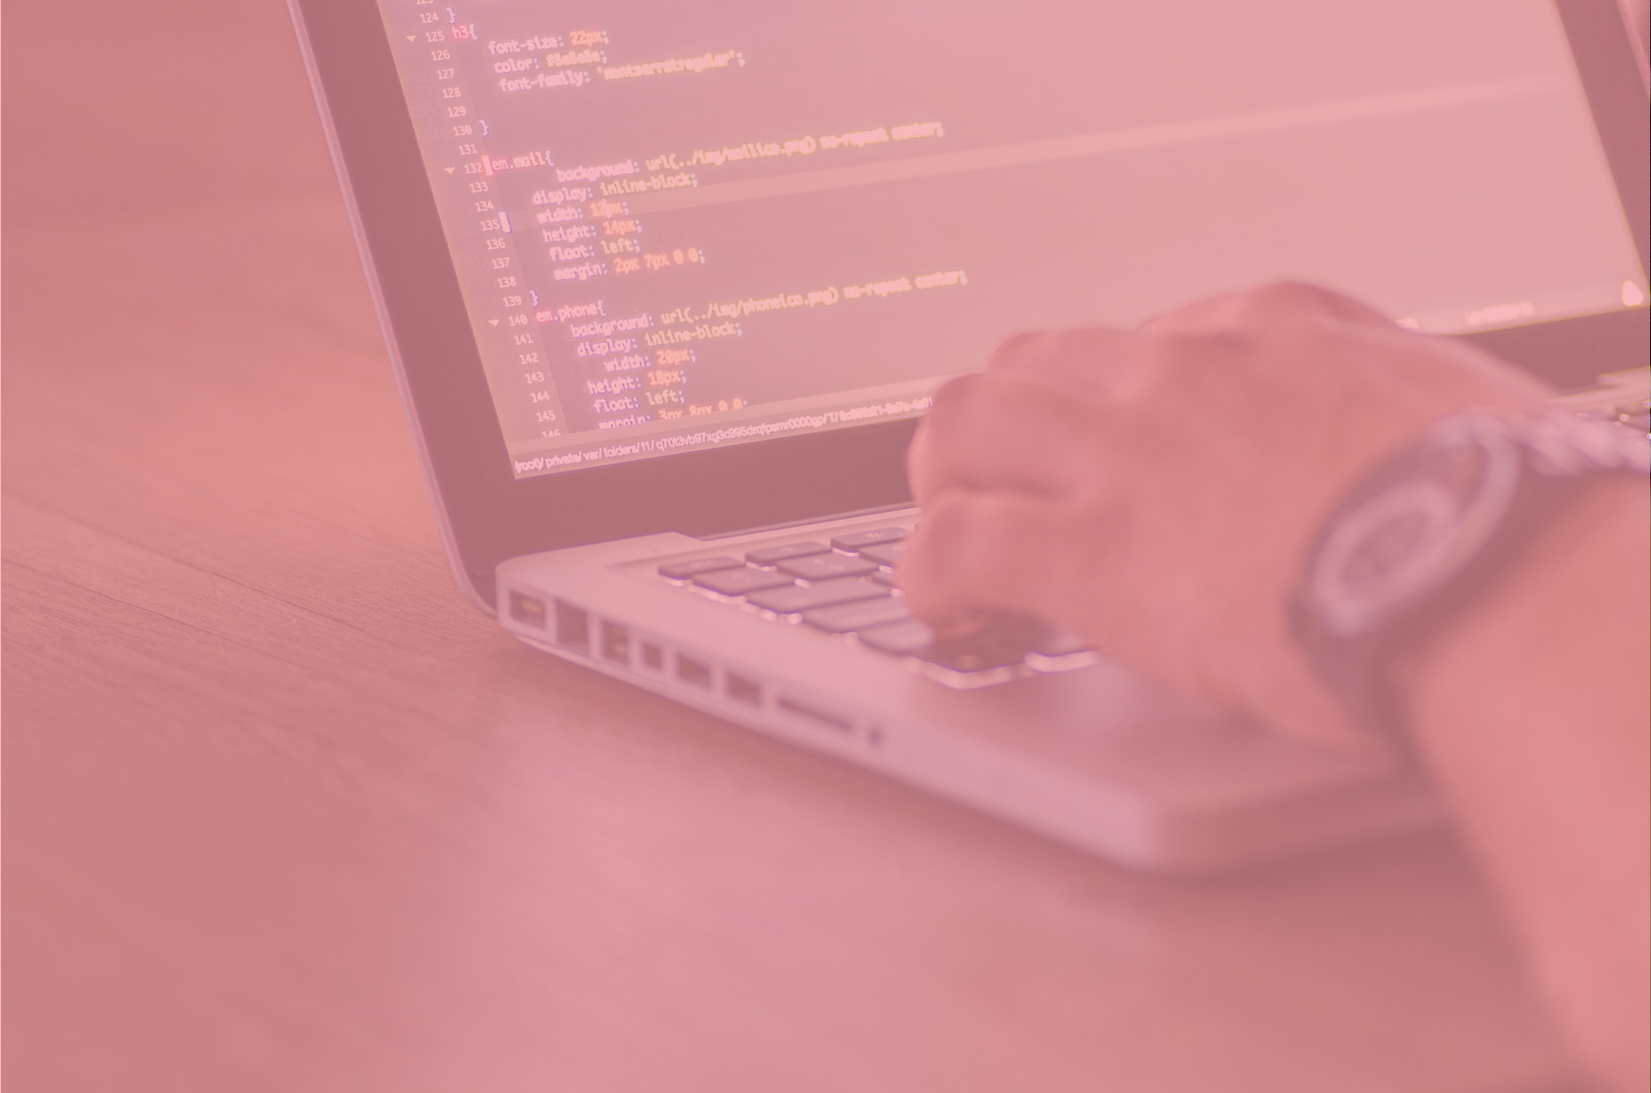
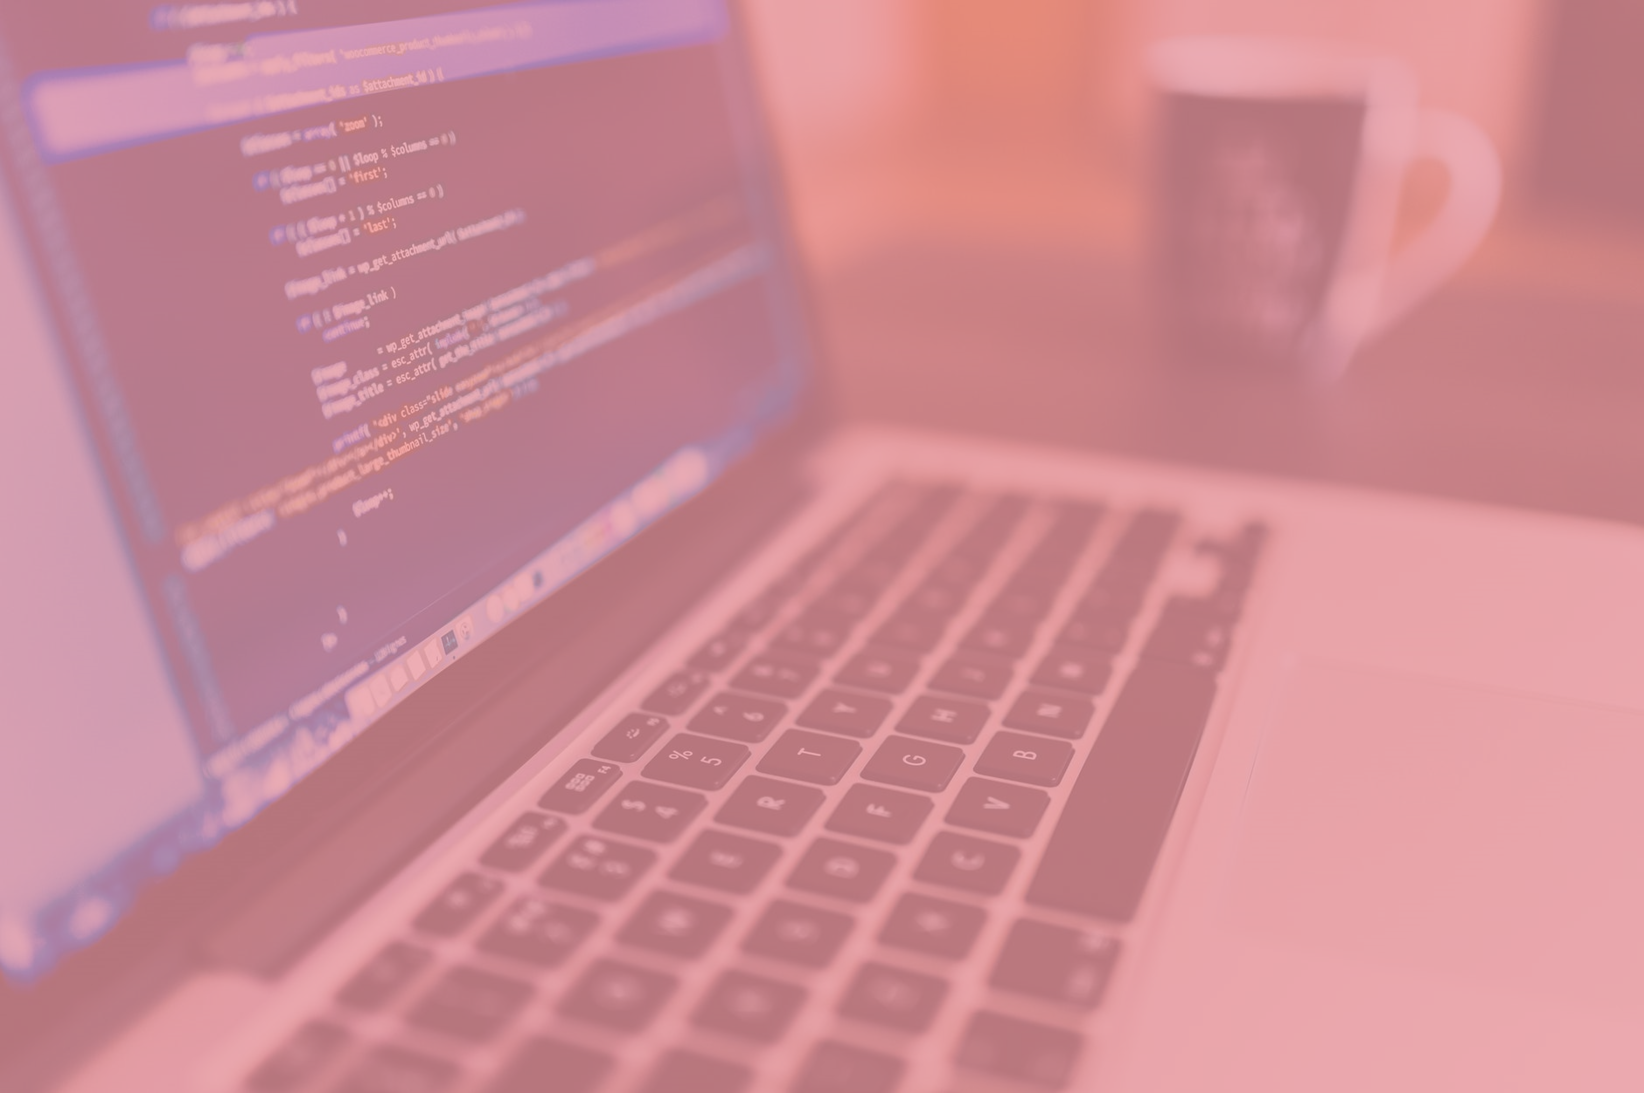
add back-ground qua trinh

diff --git a/index.html b/index.html
@@ -82,66 +82,71 @@
  		</div> <!-- .container.text-xs-center(tab) -->
  	</div> <!-- hết phần khối TT -->
 
- 	<div class="edu" id="khoiedu">
- 		<div class="container">
- 			<div class="row">
- 				<div class="col-sm-12 tieudeto text-xs-center">
- 					<h1>Quá trình học tập & làm việc</h1>
- 				</div>
- 				<div class="col-sm-4 cot1_3">
- 					<h2 class="tieudecap2 text-sm-right text-xs-center">Quá trình <span class="dam">học</span></h2>
- 					<div class="khoittnho text-sm-right text-xs-center">
- 						<h3 class="tieudecap3">Học Tiểu học Thanh Bình<br><br>2003-2007</h3>
- 						<span class="motaqt">Nhanh nhẹn, hoạt bát, vui vẻ, hòa đồng</span>
- 						<p>It's not about money. It's about the people you have, how you're led, and how much you get it.<br>Stay hungry, stay foolish.</p>
- 					</div> <!-- end khoittnho -->
- 					<div class="khoittnho text-sm-right text-xs-center">
- 						<h3 class="tieudecap3">Học THCS Trương Hán Siêu<br><br>2008-2011</h3>
- 						<span class="motaqt">Nhanh nhẹn, thông minh, trách nhiệm, hòa đồng</span>
- 						<p>Sometimes life is going to hit you in the head with a brick. Don’t lose faith.</p>
- 					</div> <!-- end khoittnho -->
- 					<div class="khoittnho text-sm-right text-xs-center">
- 						<h3 class="tieudecap3">Học THPT chuyên Lương Văn Tụy<br><br>2012-2014</h3>
- 						<span class="motaqt">Thông minh, chăm chỉ, trách nhiệm, nhiệt huyết</span>
- 						<p>Ambition is the path to success. Persistence is the vehicle you arrive in.If one dream should fall and break into a thousand pieces, never be afraid to pick one of those pieces up and begin again.</p>
- 					</div> <!-- end khoittnho -->
-					<div class="khoittnho text-sm-right text-xs-center">
- 						<h3 class="tieudecap3">Học Đại học Bách Khoa Hà Nội<br><br>2015-2020</h3>
- 						<span class="motaqt">Hòa đồng, vui vẻ, trách nhiệm, nhiệt huyết</span>
- 						<p>Everyone has talent. What is rare is the determination to follow the talent to dark place where it leads.</p>
- 					</div> <!-- end khoittnho -->
+ 	<div class="bokhoikn quatrinh">
+		<div class="layer1"></div> <!-- end layer1 -->	
+		<div class="layer2">
+		 	<div class="edu" id="khoiedu">
+		 		<div class="container">
+		 			<div class="row">
+		 				<div class="col-sm-12 tieudeto text-xs-center">
+		 					<h1>Quá trình học tập & làm việc</h1>
+		 				</div>
+		 				<div class="col-sm-4 cot1_3">
+		 					<h2 class="tieudecap2 text-sm-right text-xs-center">Quá trình <span class="dam">học</span></h2>
+		 					<div class="khoittnho text-sm-right text-xs-center">
+		 						<h3 class="tieudecap3">Học Tiểu học Thanh Bình<br><br>2003-2007</h3>
+		 						<span class="motaqt">Nhanh nhẹn, hoạt bát, vui vẻ, hòa đồng</span>
+		 						<p>It's not about money. It's about the people you have, how you're led, and how much you get it.<br>Stay hungry, stay foolish.</p>
+		 					</div> <!-- end khoittnho -->
+		 					<div class="khoittnho text-sm-right text-xs-center">
+		 						<h3 class="tieudecap3">Học THCS Trương Hán Siêu<br><br>2008-2011</h3>
+		 						<span class="motaqt">Nhanh nhẹn, thông minh, trách nhiệm, hòa đồng</span>
+		 						<p>Sometimes life is going to hit you in the head with a brick. Don’t lose faith.</p>
+		 					</div> <!-- end khoittnho -->
+		 					<div class="khoittnho text-sm-right text-xs-center">
+		 						<h3 class="tieudecap3">Học THPT chuyên Lương Văn Tụy<br><br>2012-2014</h3>
+		 						<span class="motaqt">Thông minh, chăm chỉ, trách nhiệm, nhiệt huyết</span>
+		 						<p>Ambition is the path to success. Persistence is the vehicle you arrive in.If one dream should fall and break into a thousand pieces, never be afraid to pick one of those pieces up and begin again.</p>
+		 					</div> <!-- end khoittnho -->
+							<div class="khoittnho text-sm-right text-xs-center">
+		 						<h3 class="tieudecap3">Học Đại học Bách Khoa Hà Nội<br><br>2015-2020</h3>
+		 						<span class="motaqt">Hòa đồng, vui vẻ, trách nhiệm, nhiệt huyết</span>
+		 						<p>Everyone has talent. What is rare is the determination to follow the talent to dark place where it leads.</p>
+		 					</div> <!-- end khoittnho -->
 
- 				</div> <!-- hết cột 4/1--> 
- 				<div class="col-sm-4 cot2_3">
- 					<img src="img/st01.png" alt="" class="img-fluid">
- 				</div>
- 				<div class="col-sm-4 cot3_3">
- 					<h2 class="tieudecap2 text-sm-left text-xs-center">Quá trình <span class="dam">làm việc</span></h2>
- 					<div class="khoittnho text-sm-left text-xs-center">
- 						<h3 class="tieudecap3">Technical ILECER<br><br>2016-2017</h3>
- 						<span class="motaqt">Nhanh nhẹn, hoạt bát, vui vẻ, hòa đồng</span>
- 						<p>Change will not come if we wait for some other person or some other time. We are the ones. We've been waiting for. We are the change that we seek.</p>
- 					</div> <!-- end khoittnho -->
- 					<div class="khoittnho text-sm-left text-xs-center">
- 						<h3 class="tieudecap3">Apple Group</h3>
- 						<span class="motaqt">Nhanh nhẹn, thông minh, trách nhiệm, hòa đồng</span>
- 						<p>Today is hard, tomorrow will be worse, but the day after tomorrow will be sunshine</p>
- 					</div> <!-- end khoittnho -->
- 					<div class="khoittnho text-sm-left text-xs-center">
- 						<h3 class="tieudecap3">Samsung Group</h3>
- 						<span class="motaqt">Thông minh, chăm chỉ, trách nhiệm, nhiệt huyết</span>
- 						<p>We don’t get a chance to do that many things, and every one should be really excellent. Because this is our life. Life is brief, and then you die, you know? And we’ve all chosen to do this with our lives. So it better be damn good. It better be worth it.</p>
- 					</div> <!-- end khoittnho -->
-					<div class="khoittnho text-sm-left text-xs-center">
- 						<h3 class="tieudecap3">XiaoMi Group</h3>
- 						<span class="motaqt">Thông minh, chăm chỉ, trách nhiệm, nhiệt huyết</span>
- 						<p> Your time is limited, so don’t waste it living someone else’s life. Don’t be trapped by dogma — which is living with the results of other people’s thinking. Don’t let the noise of others’ opinions drown out your own inner voice. And most important, have the courage to follow your heart and intuition. They somehow already know what you truly want to become. Everything else is secondary.</p>
- 					</div> <!-- end khoittnho -->
+		 				</div> <!-- hết cột 4/1--> 
+		 				<div class="col-sm-4 cot2_3">
+		 					<img src="img/st01.png" alt="" class="img-fluid">
+		 				</div>
+		 				<div class="col-sm-4 cot3_3">
+		 					<h2 class="tieudecap2 text-sm-left text-xs-center">Quá trình <span class="dam">làm việc</span></h2>
+		 					<div class="khoittnho text-sm-left text-xs-center">
+		 						<h3 class="tieudecap3">Technical ILECER<br><br>2016-2017</h3>
+		 						<span class="motaqt">Nhanh nhẹn, hoạt bát, vui vẻ, hòa đồng</span>
+		 						<p>Change will not come if we wait for some other person or some other time. We are the ones. We've been waiting for. We are the change that we seek.</p>
+		 					</div> <!-- end khoittnho -->
+		 					<div class="khoittnho text-sm-left text-xs-center">
+		 						<h3 class="tieudecap3">Apple Group</h3>
+		 						<span class="motaqt">Nhanh nhẹn, thông minh, trách nhiệm, hòa đồng</span>
+		 						<p>Today is hard, tomorrow will be worse, but the day after tomorrow will be sunshine</p>
+		 					</div> <!-- end khoittnho -->
+		 					<div class="khoittnho text-sm-left text-xs-center">
+		 						<h3 class="tieudecap3">Samsung Group</h3>
+		 						<span class="motaqt">Thông minh, chăm chỉ, trách nhiệm, nhiệt huyết</span>
+		 						<p>We don’t get a chance to do that many things, and every one should be really excellent. Because this is our life. Life is brief, and then you die, you know? And we’ve all chosen to do this with our lives. So it better be damn good. It better be worth it.</p>
+		 					</div> <!-- end khoittnho -->
+							<div class="khoittnho text-sm-left text-xs-center">
+		 						<h3 class="tieudecap3">XiaoMi Group</h3>
+		 						<span class="motaqt">Thông minh, chăm chỉ, trách nhiệm, nhiệt huyết</span>
+		 						<p> Your time is limited, so don’t waste it living someone else’s life. Don’t be trapped by dogma — which is living with the results of other people’s thinking. Don’t let the noise of others’ opinions drown out your own inner voice. And most important, have the courage to follow your heart and intuition. They somehow already know what you truly want to become. Everything else is secondary.</p>
+		 					</div> <!-- end khoittnho -->
 
- 				</div> <!-- hết cột 4/1--> 
- 			</div>
- 		</div>
- 	</div> <!-- end edu -->
+		 				</div> <!-- hết cột 4/1--> 
+		 			</div>
+		 		</div>
+		 	</div> <!-- end edu -->
+ 		</div> <!-- end layer2 -->
+ 	</div><!-- end bokhoikn -->
  	<div class="bokhoikn">
  		<div class="layer1"></div> <!-- end layer1 -->	
  		<div class="layer2">

diff --git a/1.css b/1.css
@@ -66,6 +66,13 @@ a.navbar-brand {
 	/*transition: 10s;*/
 	
 }
+.bokhoikn.quatrinh .layer1{
+	background-image: url(f2.png);
+
+}
+.bokhoikn.quatrinh .layer1{
+	animation: zoomlen 25s forwards; /*forwards la chuyen dong ve phia trc*/
+}
 .bokhoikn:hover .layer1{
 	animation: zoomlen 25s forwards; /*forwards la chuyen dong ve phia trc*/
 }
